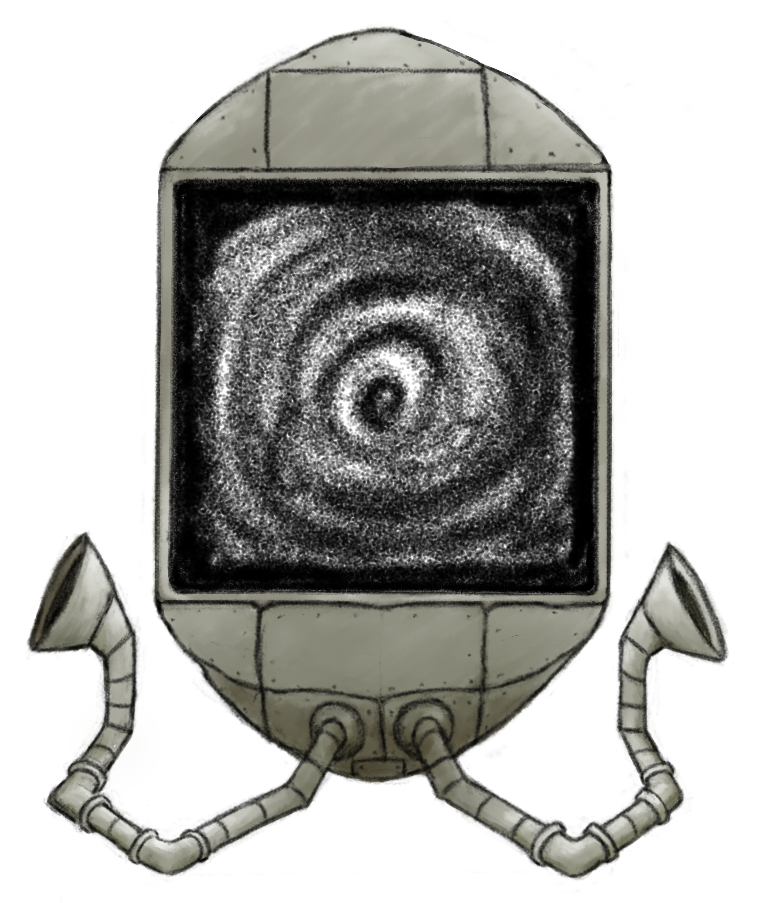
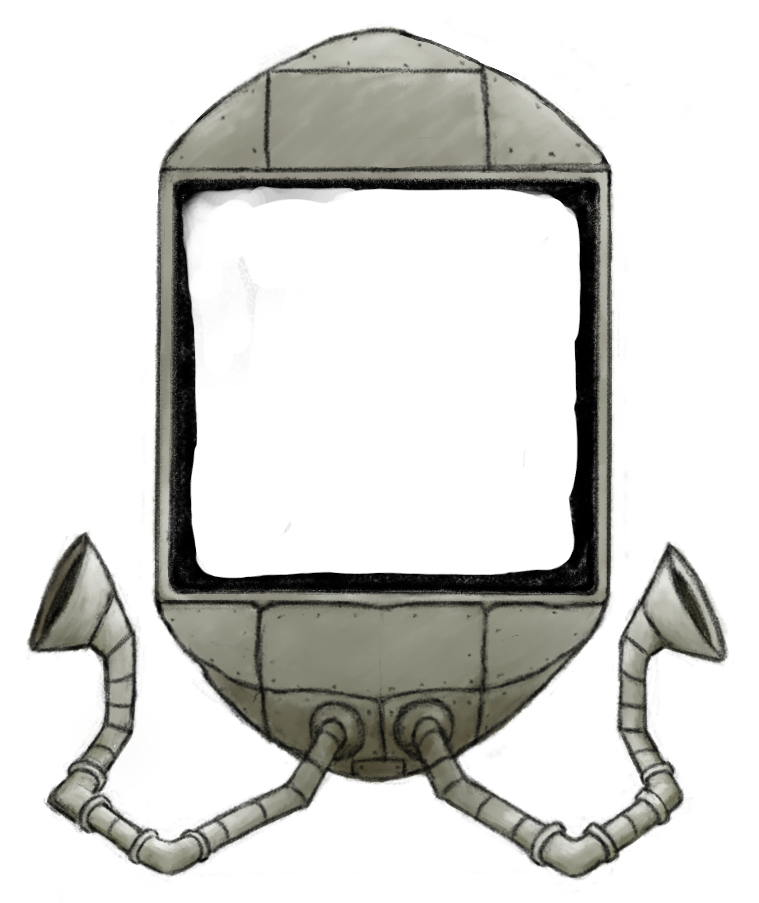
game under a c strange-machine

Changed region(s): [[0.2424, 0.186, 0.7879, 0.6512]]

diff --git a/diggems/static/js/game.js b/diggems/static/js/game.js
@@ -125,22 +125,24 @@ Tile.prototype.draw = function() {
 	'rgb(0,0,0)'
     ];
 
-    if(this.s >= 0 && this.s <= 8) {
-	ctx.fillStyle = 'rgb(255,216,161)';
-	ctx.fillRect(this.x, this.y, 25, 25);
-	if(this.s > 0) {
-	    ctx.fillStyle = TEXT_COLOR[this.s-1];
-	    ctx.fillText(this.s, this.x + 12.5, this.y + 12.5);
-	}
+		if(this.s >= 0 && this.s <= 8) 
+		{
+			ctx.fillStyle = 'rgb(255,216,161)';
+			ctx.fillRect(this.x, this.y, 25, 25);
+			if(this.s > 0)
+			{
+			  ctx.fillStyle = TEXT_COLOR[this.s-1];
+			  ctx.fillText(this.s, this.x + 12.5, this.y + 12.5);
+			}
     }
-    else if(this.s == 'r' || this.s == 'b') {
+	else if(this.s == 'r' || this.s == 'b') {
 	ctx.fillStyle = 'rgb(251,170,56)';
 	ctx.fillRect(this.x, this.y, 25, 25);
 	var icon = images[(this.s == 'b') ? 'saphire' : 'ruby'];
 	ctx.drawImage(icon, this.x + 2, this.y + 5);
     }
     else {
-	ctx.fillStyle = 'rgb(227,133,0)';
+	ctx.fillStyle = 'rgb(126,171,70)';
 	ctx.fillRect(this.x, this.y, 25, 25);
 
 	if(this.s == 'x') {

diff --git a/diggems/static/css/base.css b/diggems/static/css/base.css
@@ -31,23 +31,37 @@ html, body {
 	line-height:0;
 }
 
-#center_box {
+canvas {
 	position: absolute;
 	top: 50%;
 	left: 50%;
-	width: 680px;
-	height: 400px;
-	margin: -200px 0 0 -340px;
+	width: 416px;
+	height: 416px;
+	margin: -270px 0 0 -202px;
 	background-color: #eee;
+	z-index:1;
 }
 
-canvas {
-	display: block;
-	margin-left: auto;
-	margin-right: auto;
-	position: relative;
-	z-index:-1;
-	border: 30px solid #fff;
+#machine{
+	height: 903px;
+	width: 759px;
+	position: absolute;
+	top: 50%;
+	left: 50%;
+	margin: -451px 0 0 -379px;
+	background: url('/static/images/maquina1.png') center no-repeat;
+	z-index:0;
+}
+
+#machine_border{
+	height: 903px;
+	width: 759px;
+	position: absolute;
+	top: 50%;
+	left: 50%;
+	margin: -451px 0 0 -379px;
+	background: url('/static/images/maquina1-borda.png') center no-repeat;
+	z-index:2;
 }
 
 #bomb {

diff --git a/diggems/templates/game.html b/diggems/templates/game.html
@@ -25,10 +25,14 @@ var params = {
 <script src="/static/js/game.js"></script>
 
 <div id="game_area">
-<canvas id="game_canvas" width="416" height="416">
-Atualize seu navegador.
-</canvas>
+	<div id="machine">
+		<canvas id="game_canvas" width="416" height="416">
+			Atualize seu navegador.
+		</canvas>
+		<div id="machine_border" />
+	</div>
 </div>
+
 <!-- TODO: Have button to disable the audio. -->
 <audio id="ring" preload="auto">
 <source src="/static/sound/ring.mp3" type="audio/mpeg" />
